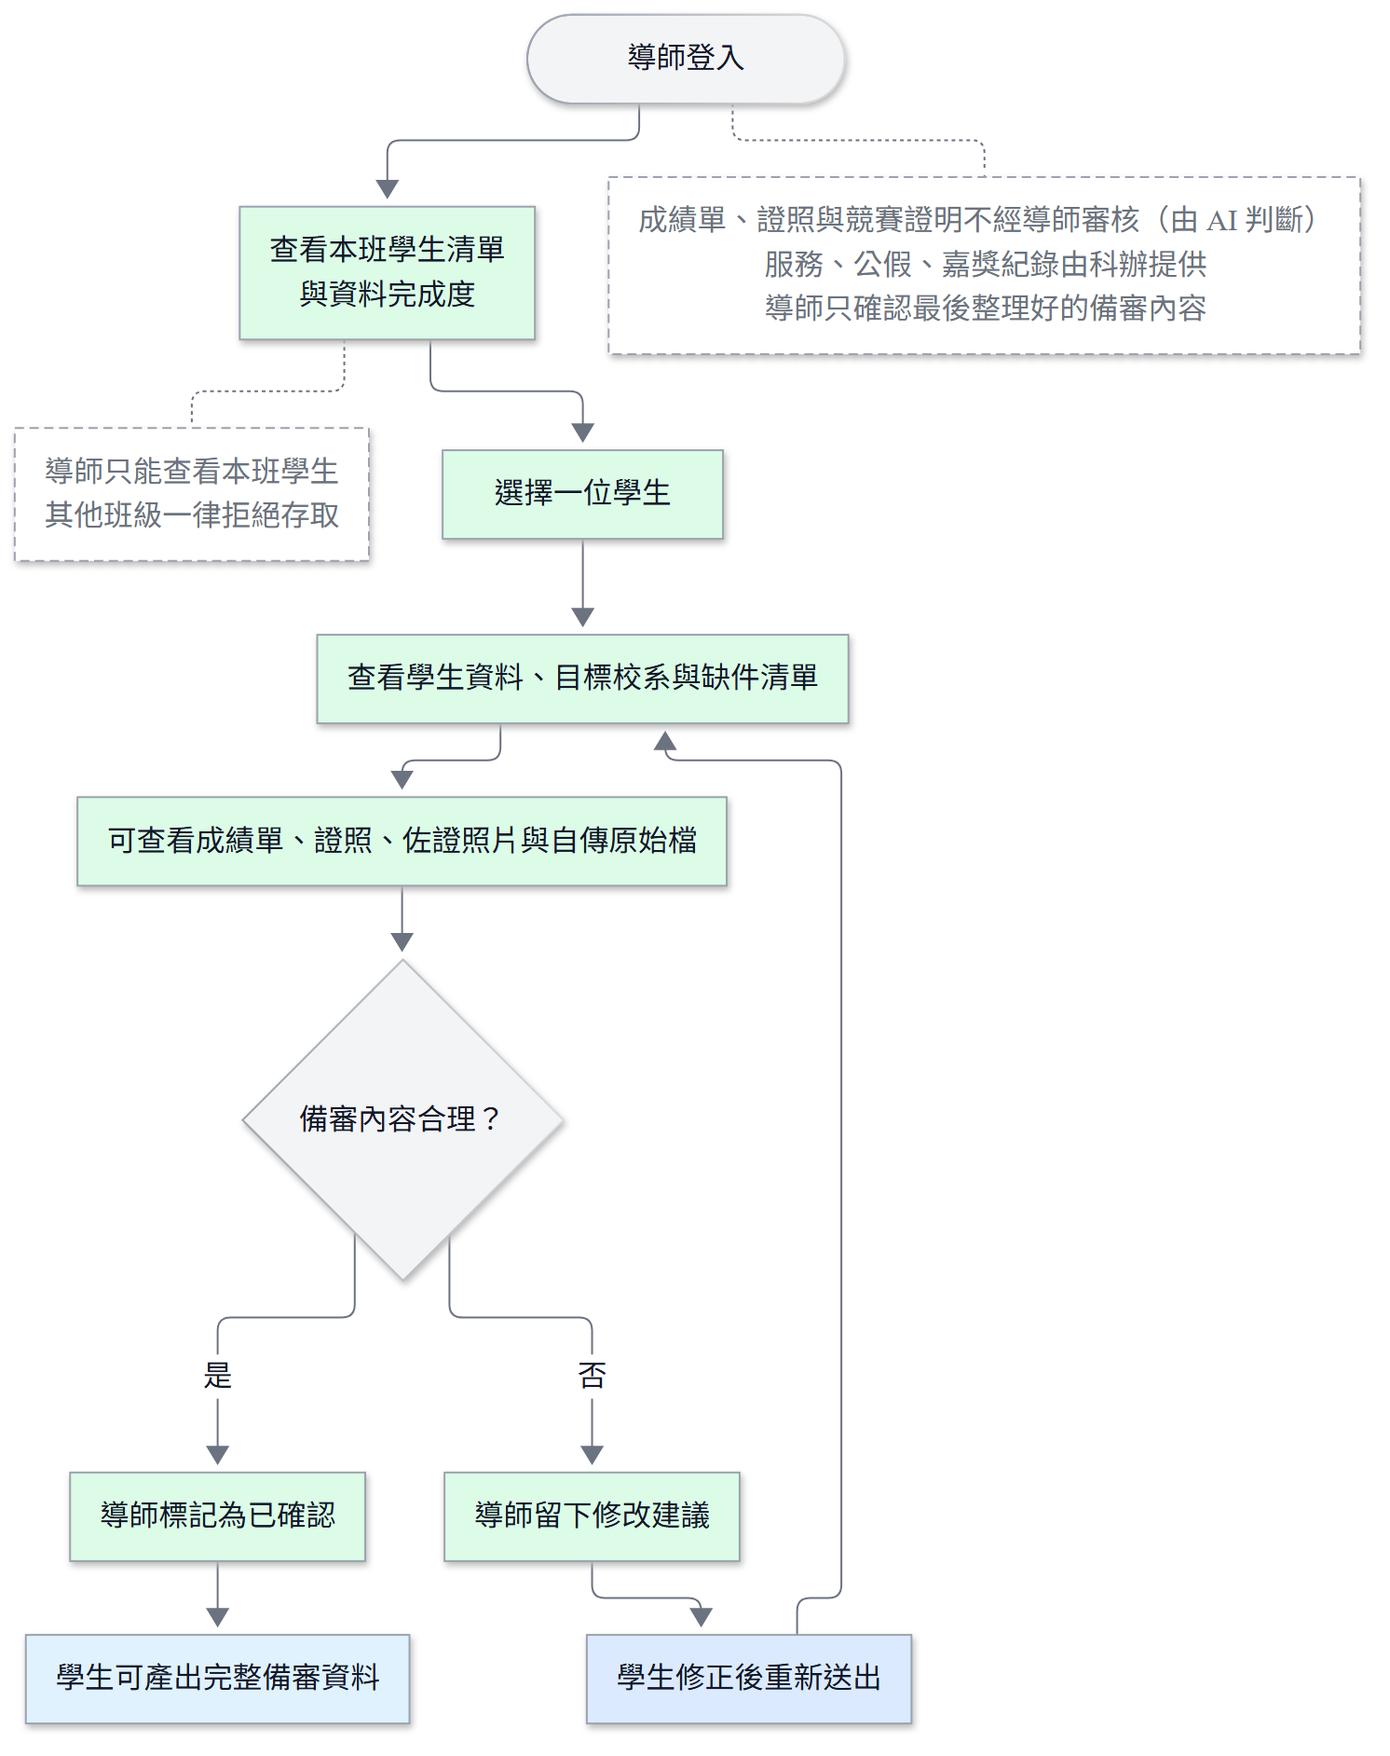
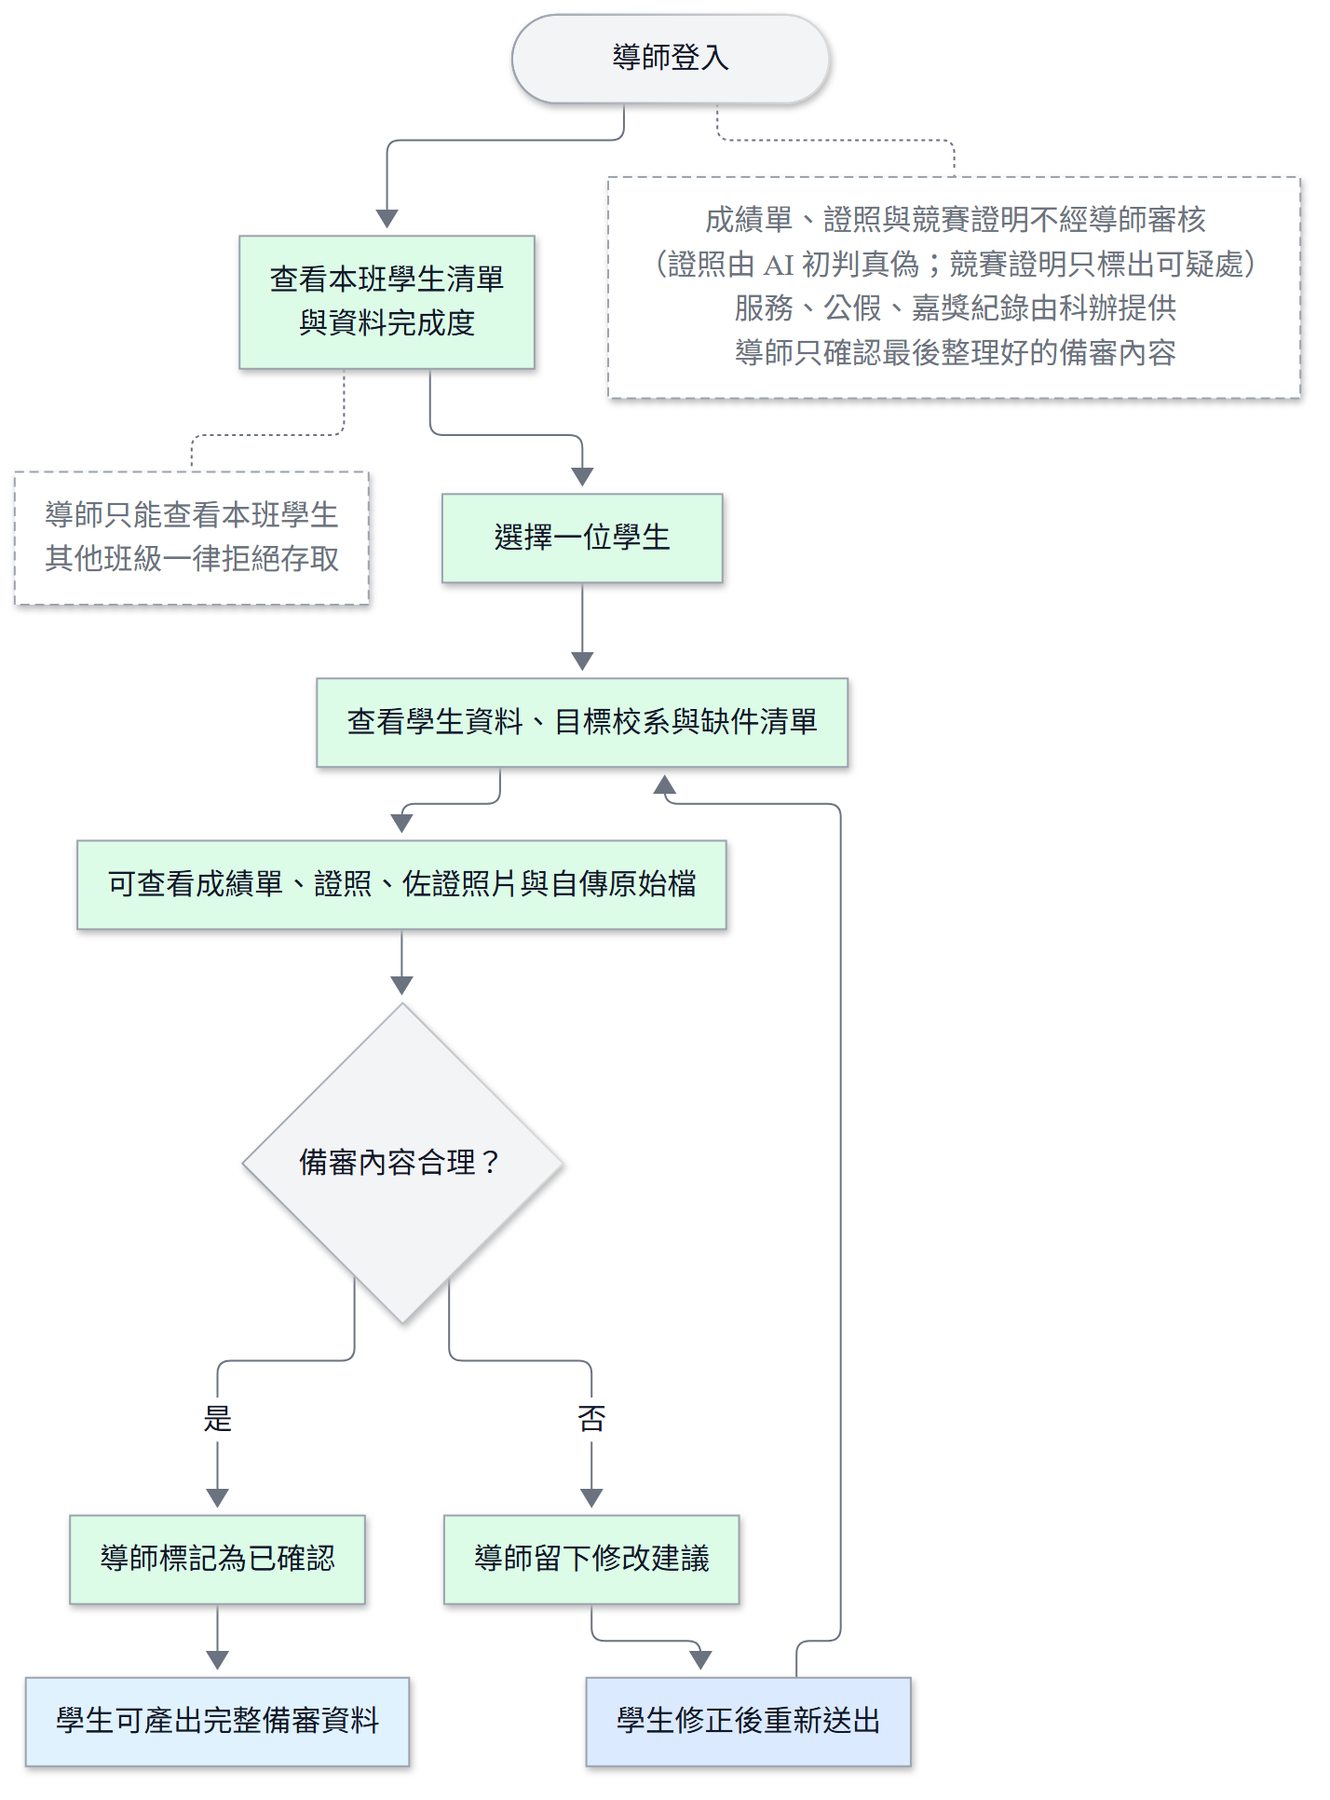
docs: unify teacher roles, limit AI checks on competition proofs, add staff questions
- homeroom, subject and competition advisors share the teacher role and
  are scoped by relationship
- competition certificates get field extraction and warnings only, no
  authenticity verdict; every record carries its proof source
- competition registration stays out of scope, with design rules that
  keep it addable later and a draft flow
- list concrete questions to ask the department assistant

diff --git a/docs/01_正式規格/資管科智慧學習歷程系統-系統規格設計書-開發閱讀版.md b/docs/01_正式規格/資管科智慧學習歷程系統-系統規格設計書-開發閱讀版.md
@@ -56,7 +56,10 @@
 | 10-07 | 科助（電話） | 科上派的服務 | 例如帶高中機器人社團。目前統一在學校電子證書平台開證明，證明上沒有時數，而且要等學生做備審時一次匯整給科助才開；科助希望系統能產出類似電子獎狀的格式 |
 | 10-07 | 指導老師 | 招生資料 Agent | 沒有帳號不能爬學校系統；Agent 先查網路上資管相關二技校系與入學要求、列出條件，再與學生選的校系比對。設定的條件要下對，資料才不會亂 |
 | 10-08 | 組內 | 科辦角色 | 科辦是「科上官方紀錄」的資料來源：用固定 Excel 範本上傳服務、公假、嘉獎名單，系統依學號列入學生資料並可產出電子證明；**不逐筆審核學生資料、不審備審資料** |
-| 10-08 | 組內 | 競賽證明 | 參賽證明由主辦方開立（例如機器人競賽由 AREC 開），科辦不開，頂多給公假與嘉獎；所以競賽證明由學生自行上傳、AI 判斷，不經科辦 |
+| 10-08 | 組內 | 競賽證明 | 參賽證明由主辦方開立（例如機器人競賽由 AREC 開），科辦不開，頂多給公假與嘉獎；所以競賽證明由學生自行上傳，不經科辦；每筆資料標示證明來源（例如「競賽主辦方」） |
+| 10-08 | 組內 | 競賽證明的 AI 判斷 | 各主辦方格式不同，AI 容易誤判，所以競賽證明**只整理欄位、標出可疑處，不判斷真偽**；只有證照（格式固定，有發證單位與證號）做真偽初判 |
+| 10-08 | 組內 | 教師端 | 導師、專任教師、指導老師合併為同一個教師端（`teacher` 角色），不另設登入角色；用「與學生的關係」決定能看哪些學生（見第五點） |
+| 10-08 | 組內 | 競賽報名 | 先不做；之後可能加入，設計上要留後路、不寫死（見第五點） |
 | 10-08 | 組內 | AI 撰寫 | 自傳小幫手與備審資料可引用學生資料與科辦紀錄，並標示依據 |
 | 10-08 | 組內 | 專案資料夾 | 只在 `D:\democase\ai` 開發；`ai-team`、`ai-personal` 暫停，功能穩定後再一次同步 |
 
@@ -67,7 +70,7 @@
 3. 系統列出該校系需要的備審資料項目與加權。
 4. 學生自行從學校系統下載成績單等資料。
 5. 學生上傳六類資料（成績與學分、證照、活動、競賽、服務學習、幹部經歷）。
-6. AI 辨識並判斷格式；證照與競賽證明另判斷真偽。辨識失敗時說明可能原因與修正方式，學生可重新上傳或手動輸入。
+6. AI 辨識並判斷格式；證照另做真偽初判，競賽證明只整理欄位並標出可疑處。辨識失敗時說明可能原因與修正方式，學生可重新上傳或手動輸入。
 7. 學生確認與修正；AI 在旁標出可疑或不合理之處；本人確認後才存入。
 8. 科辦上傳的服務、公假、嘉獎紀錄依學號自動列入。
 9. 系統比對校系要求，列出還缺什麼。
@@ -88,7 +91,9 @@
 | 學生 | 成績單 OCR 智慧判斷 | 組員完成、待整合 | `ai` 目前的文件辨識是 `fake`（回傳空草稿），學生需手動輸入；整合時要符合下兩列的要求 |
 | 學生 | AI 辨識失敗時說明原因與修正方式 | 待開發 | 會議要求：不能只顯示「錯誤」 |
 | 學生 | 確認前 AI 標出可疑處 | 待開發 | 確認頁目前只有原始檔對照 |
-| 學生 | 證照與競賽證明 AI 真偽判斷 | 待開發 | 判斷範圍見第四點 |
+| 學生 | 證照 AI 真偽初判 | 待開發 | 判斷範圍見第四點 |
+| 學生 | 競賽證明 AI 整理欄位、標出可疑處 | 待開發 | 不判斷真偽 |
+| 學生 | 每筆資料標示證明來源（學生上傳／競賽主辦方／科辦提供） | 待開發 | 導師與 AI 撰寫時可看出可信度 |
 | 學生 | 缺件比對、送導師確認、產出備審 Word | 已完成 | |
 | 學生 | AI 自傳小幫手 | 已完成 | 先回答 4 題再生成，只引用學生真有的資料；引用科辦紀錄待開發 |
 | 學生 | 查看科辦紀錄、下載電子證明 | 待開發 | |
@@ -96,10 +101,11 @@
 | 導師 | 本班學生清單、學生詳情、看原始檔與佐證 | 已完成 | 只能看 `class_advisors` 指定班級 |
 | 導師 | 確認備審或留下修改建議 | 已完成 | |
 | 導師 | 班級統計 | 後續擴充 | |
+| 教師 | 專任教師、指導老師看到相關學生 | 後續擴充 | 同一個 `teacher` 角色，新增「關係」即可，不需新角色 |
 | 科辦 | 下載 Excel 範本、上傳服務／公假／嘉獎名單 | 待開發 | 有錯時列出第幾列與原因；先預覽再確認匯入 |
 | 科辦 | 依紀錄產出電子證明 | 待開發 | 版面待確認 |
 | 科辦 | 學生發現漏列時線上申請補登 | 待確認 | 第一版先不做，請學生直接找科助 |
-| 科辦 | 開放競賽報名、處理公假與嘉獎申請 | 後續擴充 | 性質同行政表單 |
+| 科辦 | 開放競賽報名、處理公假與嘉獎申請 | 後續擴充 | 先問科助現行做法（見第七點）；流程草稿見第五點 |
 | 管理者 | 校系資料、種子資料、導師班級 | 已完成 | |
 | 管理者 | 招生資料 Agent 第二、三階段 | 已完成 | 已用真的 Gemini 實測：116 簡章擷取結果與種子資料一致 |
 | 系統 | 5 張新資料表在 MySQL 執行 migration | 待開發 | 只在 SQLite 測過；要先備份資料庫 |
@@ -107,10 +113,24 @@
 #### 四、AI 功能的邊界
 
 - AI 的結果都是**候選或提醒**，由學生本人、導師或管理者確認後才算數；AI 不直接發布、不直接核准。
+- **只有證照做真偽初判；競賽證明不判斷真偽**，只整理欄位、標出可疑處，避免誤判主辦方的正式證明。
 - **證照「真偽」只能做到初判**：AI 能檢查發證單位、證號格式、日期與欄位是否合理，並說明判斷理由；無法連到發證單位的資料庫，所以不能保證真假。無法判斷時，請學生補上發證單位的查詢網址，或由導師看原始檔。
 - AI 額度：免費方案 `gemini-2.5-flash` 每天只有 20 次，全班使用需要付費方案或學校帳號。
 
-#### 五、這次更新了哪些文件
+#### 五、設計原則：留後路、不寫死
+
+功能確定前先做最小的版本，但資料與權限的設計要能直接往下擴充，不必重寫：
+
+1. **教師端用「關係」決定範圍，不新增角色**：導師、專任教師、指導老師都是 `teacher`。目前已有「導師 ↔ 班級」（`class_advisors`）；之後加「指導老師 ↔ 學生／競賽」「專任教師 ↔ 課程」時，只新增關係表，權限檢查集中在 `services/teacher_scope.py` 一個地方。
+2. **每筆資料記錄來源**：學生上傳、競賽主辦方、科辦提供。之後新增來源（例如報名系統自動產生）只要多一個值。
+3. **紀錄類別用設定，不寫死在程式裡**：科辦範本的「項目類別」（服務、公假、嘉獎……）放在一份設定清單，新增類別不必改程式。
+4. **競賽報名之後接得上**：未來的報名資料完成比賽後，直接寫進同一份學生紀錄（來源標示「報名系統」），缺件比對、自傳與備審不用改。
+
+競賽報名流程草稿（後續擴充，問過科助後再決定）：
+
+> 科辦建立競賽事項（名稱、報名期限、主辦單位、是否需要指導老師）→ 學生在系統申請報名 → 指導老師確認 → 學生參賽 → 學生上傳主辦方（例如 AREC）開立的參賽／得獎證明 → 科辦更新報名狀態與公假、嘉獎紀錄 → 納入學習歷程與備審資料
+
+#### 六、這次更新了哪些文件
 
 | 文件 | 更新內容 |
 | --- | --- |
@@ -121,7 +141,7 @@
 | `docs/AI_指導老師討論簡報_2026-10-07.pptx` | 依新圖重新產生 |
 | `docs/03_開發紀錄/` | 開發日誌 10-08 一節、流程圖更新紀錄 |
 
-#### 六、待確認事項（確認後才開發對應功能）
+#### 七、待確認事項（確認後才開發對應功能）
 
 | 事項 | 問誰 | 影響 |
 | --- | --- | --- |
@@ -134,12 +154,22 @@
 | 種子資料中「待確認」的項目對應、學校成績系統限制（期中修畢課程、微學分） | 指導老師 | 缺件比對 |
 | AI 額度：付費方案或學校帳號 | 指導老師 | 全班使用 |
 
-#### 七、下一步（功能確認後依序進行）
+**要問科助的問題**（可以直接照著問；能拿到範例檔最好，請先遮掉個資）：
+
+1. 科上派學生出去服務（例如帶高中機器人社團），現在是誰記錄？用什麼記（Excel、紙本、其他）？可以給我們一份範例嗎？
+2. 電子證書平台開的證明上面有哪些欄位？可以給我們看一張嗎？系統產出的電子證明要長得跟它一樣嗎？
+3. 公假和嘉獎的名單，科辦拿得到嗎？平常多久整理一次？
+4. 學生報名比賽現在怎麼走？要經過科辦嗎？指導老師怎麼找？公假和嘉獎怎麼申請？
+5. 如果系統可以讓科辦公告比賽、讓學生線上報名，你會想用嗎？還是維持現在的方式比較方便？
+6. 學生發現自己的紀錄漏了，現在都怎麼找你補？
+7. 科辦會由幾個人使用系統？每個人要有自己的帳號嗎？
+
+#### 八、下一步（功能確認後依序進行）
 
 1. 整合組員的 OCR 成績單判斷，並補上「失敗時說明原因」「確認前標出可疑處」。
 2. 科辦上傳紀錄與電子證明，並讓自傳小幫手可引用。
 3. AI 推薦校系。
-4. 證照與競賽證明的 AI 初判。
+4. 證照的 AI 真偽初判；競賽證明的欄位整理與可疑處提示。
 5. MySQL migration（先備份）、首頁改版、同步到 `ai-team`／`ai-personal`。
 
 ### 2026-10-06 系統亮點：二技招生資料 Agent 分階段計畫
@@ -313,7 +343,7 @@
 5. UI Wireframe、首頁視覺方向與各角色工作頁。
 6. [系統設計更新行動計畫](../02_需求與設計/system-design-action-plan.md)與[系統流程圖與架構圖](../04_圖表與介面/diagrams.md)。
 
-目前系統角色為學生、教師（導師；專任教師待確認）、科辦／行政（科助）、系統管理者與 AI Agent。系統管理者是開發者本人，與科助不同。導師負責備審資料確認；科辦／科助上傳科上官方紀錄（服務、公假、嘉獎）並可產出電子證明，不審核備審資料。專題審查的評審委員會由教師共同討論，不另建立 `reviewer` 登入角色；共同結論由科主任或科助登錄。AI Agent 屬於後端輔助模組，可提供小助手介面，但不是登入角色，也不得取代任何人工審核權限。
+目前系統角色為學生、教師（導師、專任教師、指導老師共用教師端，以與學生的關係決定範圍）、科辦／行政（科助）、系統管理者與 AI Agent。系統管理者是開發者本人，與科助不同。導師負責備審資料確認；科辦／科助上傳科上官方紀錄（服務、公假、嘉獎）並可產出電子證明，不審核備審資料。專題審查的評審委員會由教師共同討論，不另建立 `reviewer` 登入角色；共同結論由科主任或科助登錄。AI Agent 屬於後端輔助模組，可提供小助手介面，但不是登入角色，也不得取代任何人工審核權限。
 
 ### 第一節 使用者需求
 
@@ -342,7 +372,7 @@
 
 1. 導師查看本班學生的學習資料與備審資料準備狀態，確認內容是否合理，必要時留下修改建議。
 2. 導師查看班級統計表，例如本班學生預計申請的學校與科系、資料完成度與缺件情形。
-3. 專任教師（教授該課程的老師）是否需要查看學生作品，待確認；第一版先與導師共用 `teacher` 角色。
+3. 導師、專任教師、指導老師合併為教師端（`teacher` 角色），用與學生的關係決定可查看範圍（2026-10-08 決定）；目前只實作導師與班級的關係，專任教師與指導老師的關係為後續擴充。
 4. （後續擴充）發布行政表單、查看提交進度與完成初檢。
 5. 針對所指導小組查看共用專題成果、個人分工、共同審查結論與補正證據；教師可提供輔導意見，但不在系統內建立個別評審分數。
 
@@ -401,7 +431,7 @@
 - UC-17 導師確認：導師查看本班學生資料，確認內容或留下修改建議。
 - UC-18 產出完整備審資料：資料齊全並經確認後，系統產出可列印的備審資料。
 - UC-19 AI 協助選校系與查詢下一步：學生可向資管科小助手查詢校系資料、缺件與下一步。
-- UC-20 證照真偽初判：AI 協助判斷證照真偽與整理欄位，不進導師備審確認流程。
+- UC-20 證照真偽初判：AI 協助判斷證照真偽與整理欄位，不進導師備審確認流程。競賽證明只整理欄位、標出可疑處，不判斷真偽。
 - UC-21 科辦上傳官方紀錄：科辦以 Excel 範本上傳服務、公假、嘉獎名單，系統依學號列入學生資料並可產出電子證明；AI 撰寫自傳與備審時可引用。
 
 依角色分別說明可使用的功能。虛線橢圓為後續功能或待確認功能。
@@ -867,7 +897,7 @@ Administrative_* 六張資料表屬於行政表單後續擴充，主線完成前
 | role 值 | 對應角色 | 說明 |
 | --- | --- | --- |
 | `student` | 學生 | 預設學生帳號 |
-| `teacher` | 教師／導師 | 導師查看本班學生資料、確認內容與班級統計；專任教師是否另設待確認；參與專題共同審查 |
+| `teacher` | 教師／導師 | 導師查看本班學生資料、確認內容與班級統計；專任教師、指導老師也使用此角色，以關係決定可查看範圍；參與專題共同審查 |
 | `staff` | 科辦／行政（科助） | 上傳服務、公假、嘉獎紀錄並產出電子證明；不審核備審資料 |
 | `admin` | 系統管理者 | 由開發者擔任；系統設定、帳號權限、日誌與校系備審要求維護 |
 

diff --git a/docs/04_圖表與介面/diagrams.md b/docs/04_圖表與介面/diagrams.md
@@ -56,7 +56,8 @@
 | --- | --- |
 | 選校系 | AI Agent 依學生條件推薦，學生自己選，可選多個 |
 | 上傳後 | AI 辨識並判斷格式；辨識失敗時說明可能原因與修正方式；確認前 AI 標出可疑處，一定要學生本人確認 |
-| 成績單、證照、競賽證明 | 不經導師審核；證照與競賽證明由 AI 判斷。競賽證明由主辦方（例如 AREC）開立，學生自行上傳 |
+| 成績單、證照、競賽證明 | 不經導師審核。證照由 AI 初判真偽；競賽證明由主辦方（例如 AREC）開立、學生自行上傳，AI 只整理欄位並標出可疑處，不判斷真偽；每筆資料標示證明來源 |
+| 教師端 | 導師、專任教師、指導老師共用 `teacher` 角色，以與學生的關係決定範圍 |
 | 科辦／科助 | 用固定 Excel 範本上傳服務（例如帶高中機器人社團）、公假、嘉獎紀錄，依學號列入學生資料並可產出電子證明；不逐筆審核、**不審備審資料** |
 | 自傳與備審 | AI 可引用學生資料與科辦紀錄撰寫，標示依據 |
 | 備審資料 | 只由導師確認 |
@@ -314,7 +315,7 @@ flowchart TD
 
     Start([導師登入]) --> List[查看本班學生清單<br/>與資料完成度]:::teacher
     List -.- Scope[導師只能查看本班學生<br/>其他班級一律拒絕存取]:::pending
-    Start -.- NoCert[成績單、證照與競賽證明不經導師審核（由 AI 判斷）<br/>服務、公假、嘉獎紀錄由科辦提供<br/>導師只確認最後整理好的備審內容]:::pending
+    Start -.- NoCert[成績單、證照與競賽證明不經導師審核<br/>（證照由 AI 初判真偽；競賽證明只標出可疑處）<br/>服務、公假、嘉獎紀錄由科辦提供<br/>導師只確認最後整理好的備審內容]:::pending
     List --> Pick[選擇一位學生]:::teacher
     Pick --> View[查看學生資料、目標校系與缺件清單]:::teacher
     View --> Original[可查看成績單、證照、佐證照片與自傳原始檔]:::teacher

diff --git a/docs/03_開發紀錄/development-log.md b/docs/03_開發紀錄/development-log.md
@@ -43,7 +43,16 @@
 - AI 邊界：證照真偽只能初判，無法保證真假。
 - 本次更新的文件、待確認事項（問誰）、下一步。
 
-### 六、下一步（依序）
+### 六、參考 GPT 建議後的決定（同日稍晚）
+
+- 競賽證明 AI 只整理欄位、標出可疑處，不判斷真偽；只有證照做真偽初判。
+- 每筆資料標示證明來源（學生上傳／競賽主辦方／科辦提供）。
+- 導師、專任教師、指導老師合併為教師端（`teacher`），以關係決定範圍。
+- 競賽報名先不做。規格書新增「設計原則：留後路、不寫死」，並放入 GPT 的競賽報名流程作為草稿。
+- 待確認事項加上 7 個要問科助的具體問題。
+- 圖 9 附註、`diagrams.md` 對照表同步修正。
+
+### 七、下一步（依序）
 
 1. 科辦上傳紀錄：Excel 範本上傳服務、公假、嘉獎 → 依學號列入學生資料 → 可產出電子證明 → 自傳小幫手可引用（補上 `staff` 角色的任務）。
 2. 上傳後 AI 回饋：判斷格式，出錯時說明可能原因與修正方式；確認前由 AI 標出可疑處，最後本人確認。證照與成績單不經導師。
